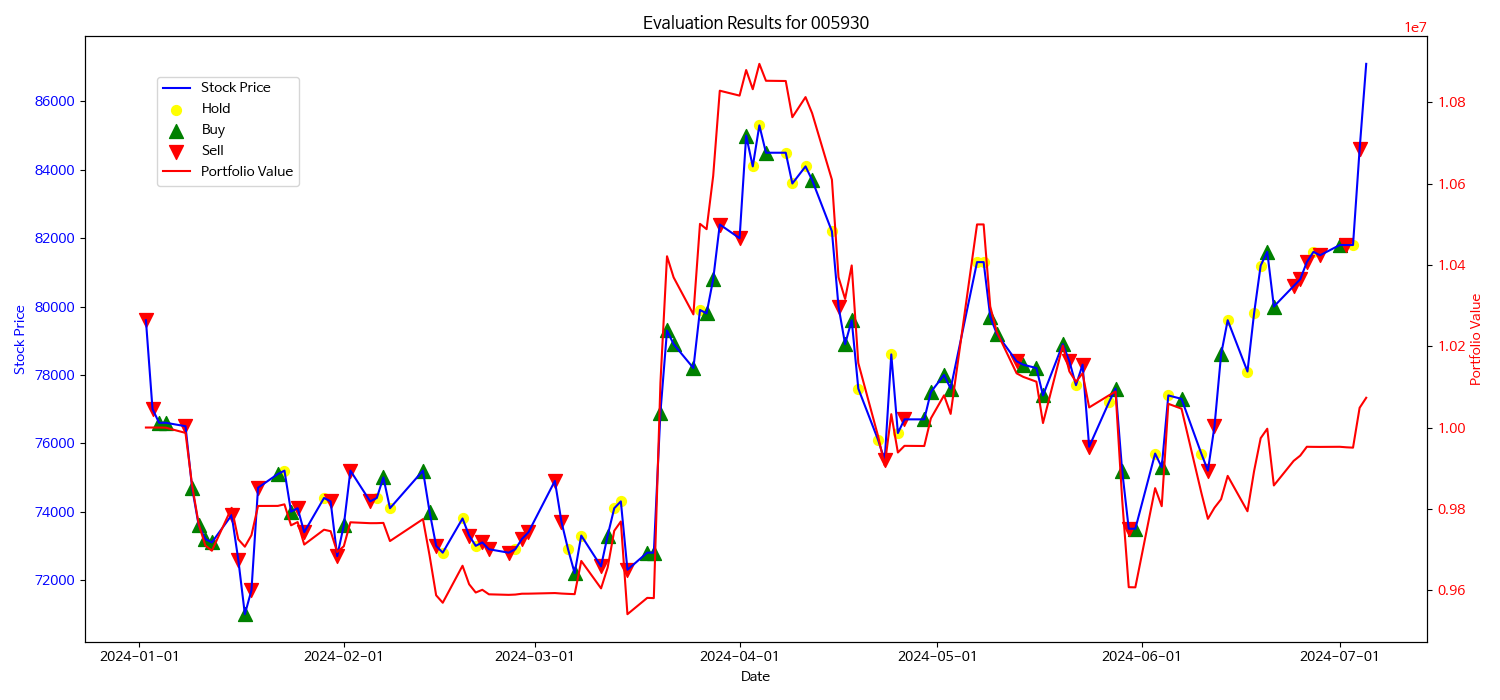
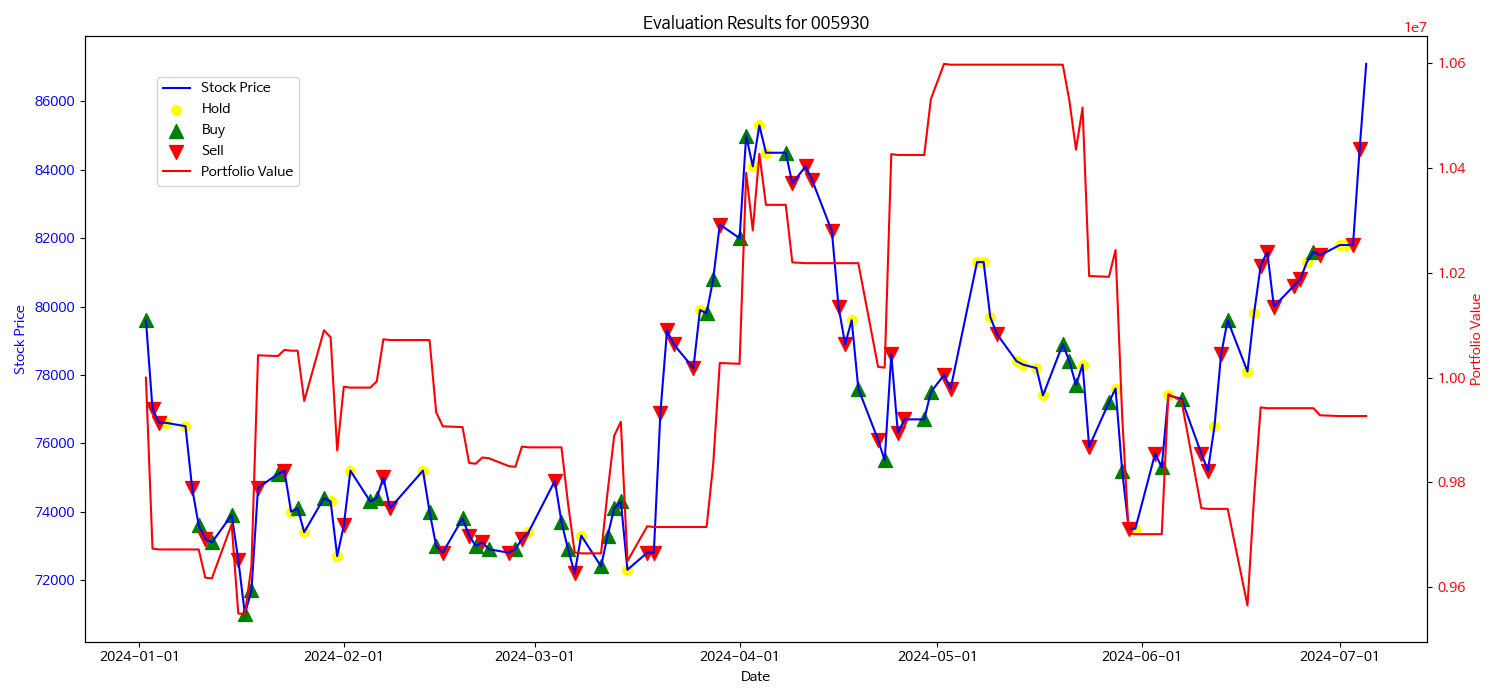
song

diff --git a/source/2024_workshop/agents/dqn_agent.py b/source/2024_workshop/agents/dqn_agent.py
@@ -17,66 +17,106 @@ class DQN(nn.Module):
     def forward(self, x):
         x = torch.relu(self.fc1(x))
         x = torch.relu(self.fc2(x))
-        return self.fc3(x).squeeze(0)
+        return self.fc3(x)
+
+class ReplayBuffer:
+    def __init__(self, capacity):
+        self.buffer = deque(maxlen=capacity)
+
+    def add(self, state, action, reward, next_state, done):
+        self.buffer.append((state, action, reward, next_state, done))
+
+    def sample(self, batch_size):
+        return random.sample(self.buffer, batch_size)
+
+    def __len__(self):
+        return len(self.buffer)
 
 class DQNAgent:
     def __init__(self, state_size, action_size, learning_rate=0.001, gamma=0.95, 
-                 epsilon=1.0, epsilon_decay=0.995, epsilon_min=0.01, memory_size=2000):
+                 epsilon=1.0, epsilon_decay=0.995, epsilon_min=0.01, 
+                 memory_size=2000, batch_size=32, target_update_frequency=100):
         self.state_size = state_size
         self.action_size = action_size
-        self.memory = deque(maxlen=memory_size)
         self.gamma = gamma
         self.epsilon = epsilon
         self.epsilon_decay = epsilon_decay
         self.epsilon_min = epsilon_min
+        self.batch_size = batch_size
         self.learning_rate = learning_rate
-        self.model = DQN(state_size, action_size).to(device)
-        self.optimizer = optim.Adam(self.model.parameters(), lr=self.learning_rate)
+        self.target_update_frequency = target_update_frequency
+        
+        self.qnet = DQN(state_size, action_size).to(device)
+        self.qnet_target = DQN(state_size, action_size).to(device)
+        self.qnet_target.load_state_dict(self.qnet.state_dict())
+        self.qnet_target.eval()
+        
+        self.optimizer = optim.Adam(self.qnet.parameters(), lr=self.learning_rate)
+        self.replay_buffer = ReplayBuffer(memory_size)
+        self.update_counter = 0
 
     def remember(self, state, action, reward, next_state, done):
-        self.memory.append((state, action, reward, next_state, done))
+        self.replay_buffer.add(state, action, reward, next_state, done)
 
     def act(self, state):
         if np.random.rand() <= self.epsilon:
             return np.random.randint(0, self.action_size)
         state = torch.FloatTensor(state).unsqueeze(0).to(device)
         with torch.no_grad():
-            q_values = self.model(state).squeeze(0)
+            q_values = self.qnet(state).squeeze(0)
         return torch.argmax(q_values).item()
 
-    def replay(self, batch_size):
-        minibatch = random.sample(self.memory, batch_size)
-        for state, action, reward, next_state, done in minibatch:
-            state = torch.FloatTensor(state).unsqueeze(0).to(device)
-            next_state = torch.FloatTensor(next_state).unsqueeze(0).to(device)
-            reward = torch.FloatTensor([reward]).to(device)
-            done = torch.FloatTensor([done]).to(device)
+    def update(self):
+        if len(self.replay_buffer) < self.batch_size:
+            return
 
-            current_q_values = self.model(state).squeeze(0)
-            next_q_values = self.model(next_state).squeeze(0)
+        batch = self.replay_buffer.sample(self.batch_size)
+        states, actions, rewards, next_states, dones = zip(*batch)
 
-            # 현재 상태에서의 선택된 행동의 Q-값
-            q_value = current_q_values[action]
+        states = torch.FloatTensor(states).to(device)
+        next_states = torch.FloatTensor(next_states).to(device)
+        actions = torch.LongTensor(actions).to(device)
+        rewards = torch.FloatTensor(rewards).to(device)
+        dones = torch.FloatTensor(dones).to(device)
 
-            # 타겟 Q-값 계산
-            if not done.item():
-                target_q_value = reward + self.gamma * torch.max(next_q_values)
-            else:
-                target_q_value = reward
+        # 현재 상태의 Q 값 계산 (qnet 사용)
+        current_q_values = self.qnet(states).gather(1, actions.unsqueeze(1)).squeeze(1)
 
-            # 손실 계산
-            loss = nn.MSELoss()(q_value, target_q_value)
+        # 다음 상태의 최대 Q 값 계산 (qnet_target 사용)
+        with torch.no_grad():
+            next_q_values = self.qnet_target(next_states).max(1)[0]
 
-            self.optimizer.zero_grad()
-            loss.backward()
-            self.optimizer.step()
+        # TD 타겟 계산
+        target_q_values = rewards + (1 - dones) * self.gamma * next_q_values
 
+        # 손실 계산
+        loss = nn.MSELoss()(current_q_values, target_q_values)
+
+        # 최적화 단계
+        self.optimizer.zero_grad()
+        loss.backward()
+        self.optimizer.step()
+
+        # 엡실론 감소
         if self.epsilon > self.epsilon_min:
             self.epsilon *= self.epsilon_decay
 
+        # 목표 신경망 업데이트
+        self.update_counter += 1
+        if self.update_counter % self.target_update_frequency == 0:
+            self.qnet_target.load_state_dict(self.qnet.state_dict())
+
     def save(self, path):
-        torch.save(self.model.state_dict(), path)
+        torch.save({
+            'qnet_state_dict': self.qnet.state_dict(),
+            'qnet_target_state_dict': self.qnet_target.state_dict(),
+            'optimizer_state_dict': self.optimizer.state_dict(),
+        }, path)
 
     def load(self, path):
-        self.model.load_state_dict(torch.load(path))
-        self.model.eval()
+        checkpoint = torch.load(path)
+        self.qnet.load_state_dict(checkpoint['qnet_state_dict'])
+        self.qnet_target.load_state_dict(checkpoint['qnet_target_state_dict'])
+        self.optimizer.load_state_dict(checkpoint['optimizer_state_dict'])
+        self.qnet.eval()
+        self.qnet_target.eval()

diff --git a/source/2024_workshop/stockevaluator.py b/source/2024_workshop/stockevaluator.py
@@ -98,7 +98,7 @@ class StockEvaluator:
             state = next_state
             portfolio_value = self.env.balance + self.env.shares_held * self.env.df.iloc[self.env.current_step]['Close']
             self.portfolio_values.append(portfolio_value)
-            self.actions.append(action[0])
+            self.actions.append(action)  # action is now a single integer, no need for indexing
             if done:
                 break
 
@@ -120,8 +120,8 @@ class StockEvaluator:
         ax1.scatter(buy_dates, [self.test_data.loc[self.test_data['Date'] == str(date)[:10], 'Close'].values[0] for date in buy_dates], 
                     color='green', marker='^', s=100, label='Buy')
         ax1.scatter(sell_dates, [self.test_data.loc[self.test_data['Date'] == str(date)[:10], 'Close'].values[0] for date in sell_dates], 
-                    color='red', marker='v', s=100, label='Sell')
-        
+                    color='red', marker='v', s=100, label='Sell')  
+              
         ax1.set_xlabel('Date')
         ax1.set_ylabel('Stock Price', color='blue')
         ax2.set_ylabel('Portfolio Value', color='red')

diff --git a/source/2024_workshop/stocktrainer.py b/source/2024_workshop/stocktrainer.py
@@ -50,19 +50,16 @@ class StockTrainer:
 
         for e in range(self.epochs):
             state = self.env.reset()
-            state = np.reshape(state, [1, self.state_size])
             episode_reward = 0
             done = False
 
             while not done:
                 action = self.agent.act(state)
                 next_state, reward, done, _ = self.env.step(action)
-                next_state = np.reshape(next_state, [1, self.state_size])
                 
                 if self.agent_type == 'dqn':
                     self.agent.remember(state, action, reward, next_state, done)
-                    if len(self.agent.memory) > self.batch_size:
-                        self.agent.replay(self.batch_size)
+                    self.agent.update()  # 새로운 update 메서드 사용
                 elif self.agent_type in ['ppo', 'a2c']:
                     self.agent.train(state, action, reward, next_state, done)
 
